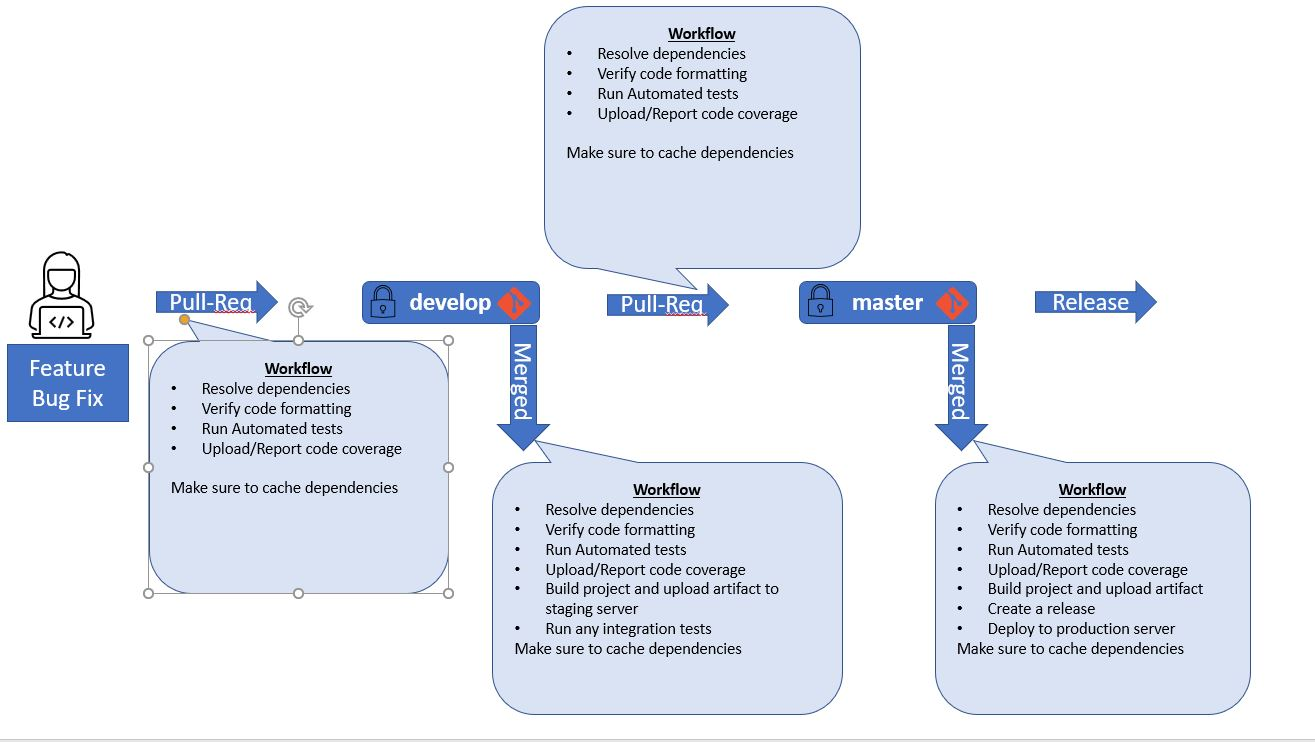
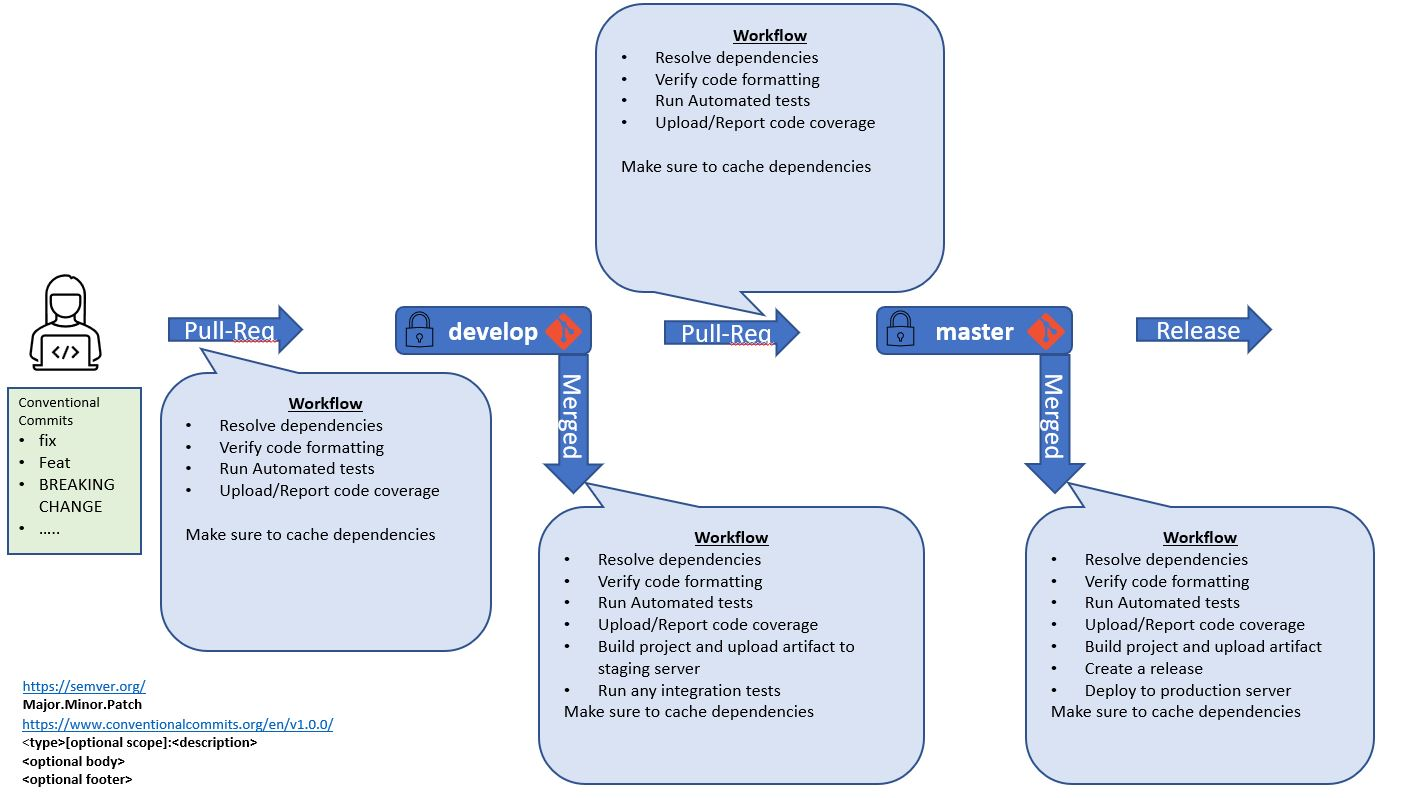
workflow 3 doc

Changed region(s): [[0.0, 0.0, 1.0, 1.0]]

diff --git a/Notes.md b/Notes.md
@@ -93,4 +93,19 @@ Surge needs login id and token
 Add above as secrets
 
 Next is adding cache to avoid repeated download of node_modules
-Next is have test coverage artifacts shown in build for download
+
+Next is to have test coverage artifacts and build  artifact for download
+
+Next is [https://semver.org/](https://semver.org/) for release **Major.Minor.Patch**
+
+Next is []() for conventional commits
+```
+ex:
+  fix(store): change store api service input and output values
+  BREAKING CHANGE: input and output needs to adopted
+  closes issue #12
+  
+  OR ! as breaking change
+  
+  fix(store)!: change store api service input and output values
+```
